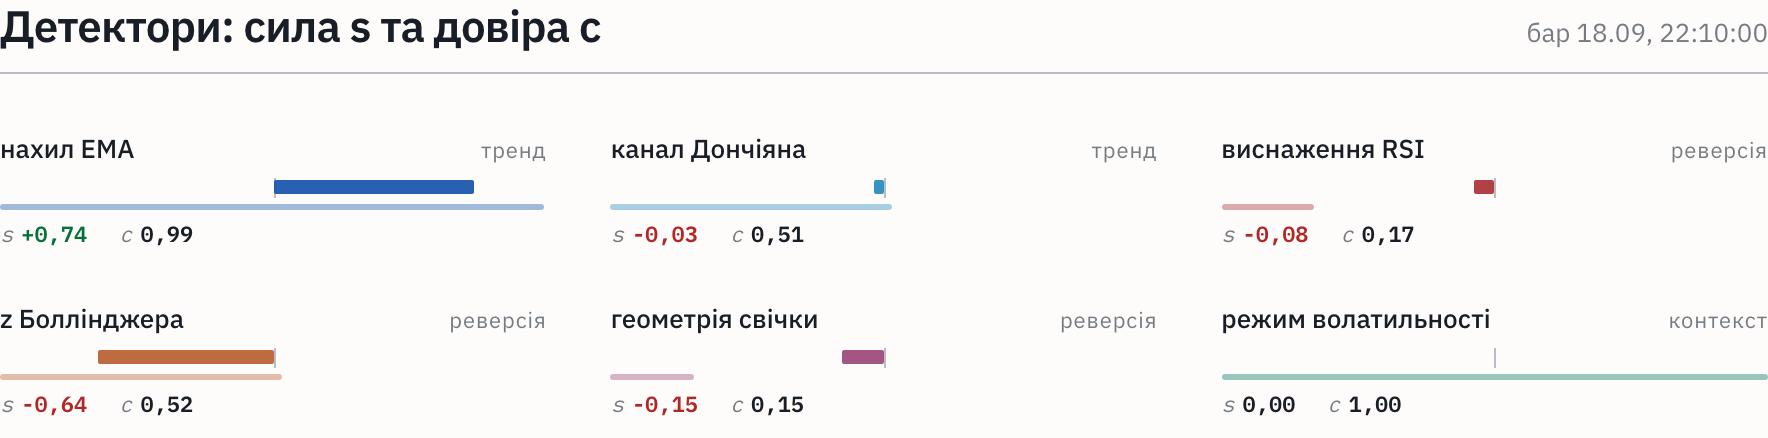
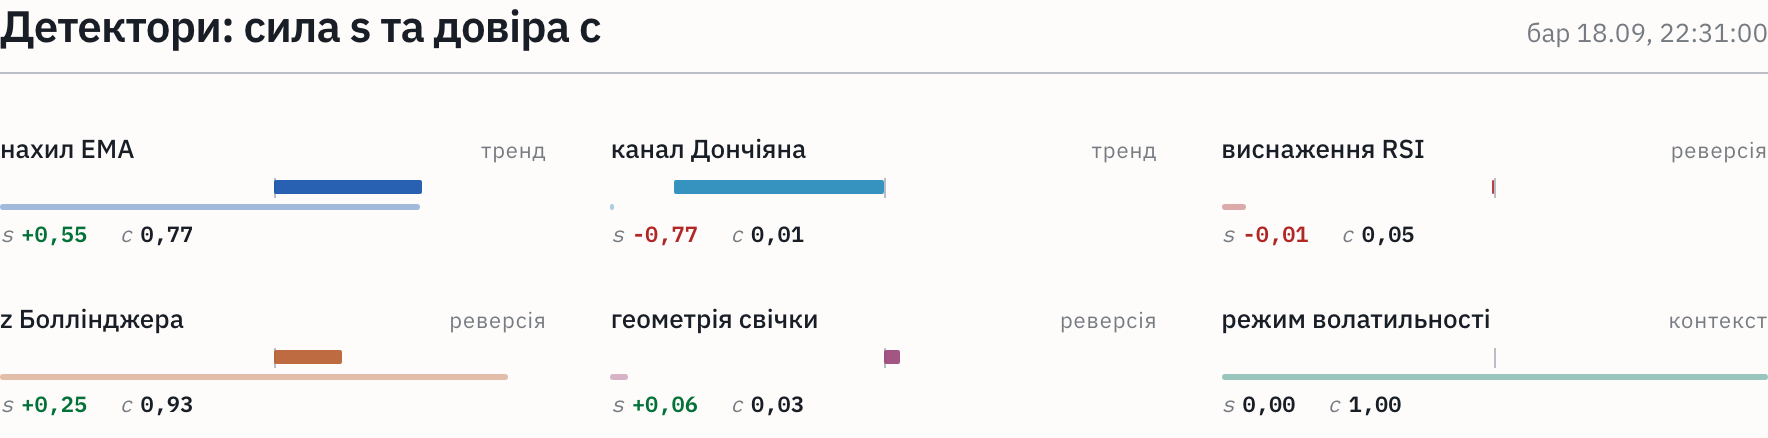
Fix stale script path in generated screenshot captions

diff --git a/docs/figures/screens/README.md b/docs/figures/screens/README.md
@@ -1,6 +1,6 @@
 # Екранограми веб-панелі
 
-Знято 2026-09-20 скриптом `scripts/capture_screens.mjs`
+Знято 2026-09-20 скриптом `ui/scripts/capture_screens.mjs`
 (1440×960, deviceScaleFactor 2, локаль uk-UA). Перезняти: `make screens`.
 
 | Файл | Що на екранограмі |
